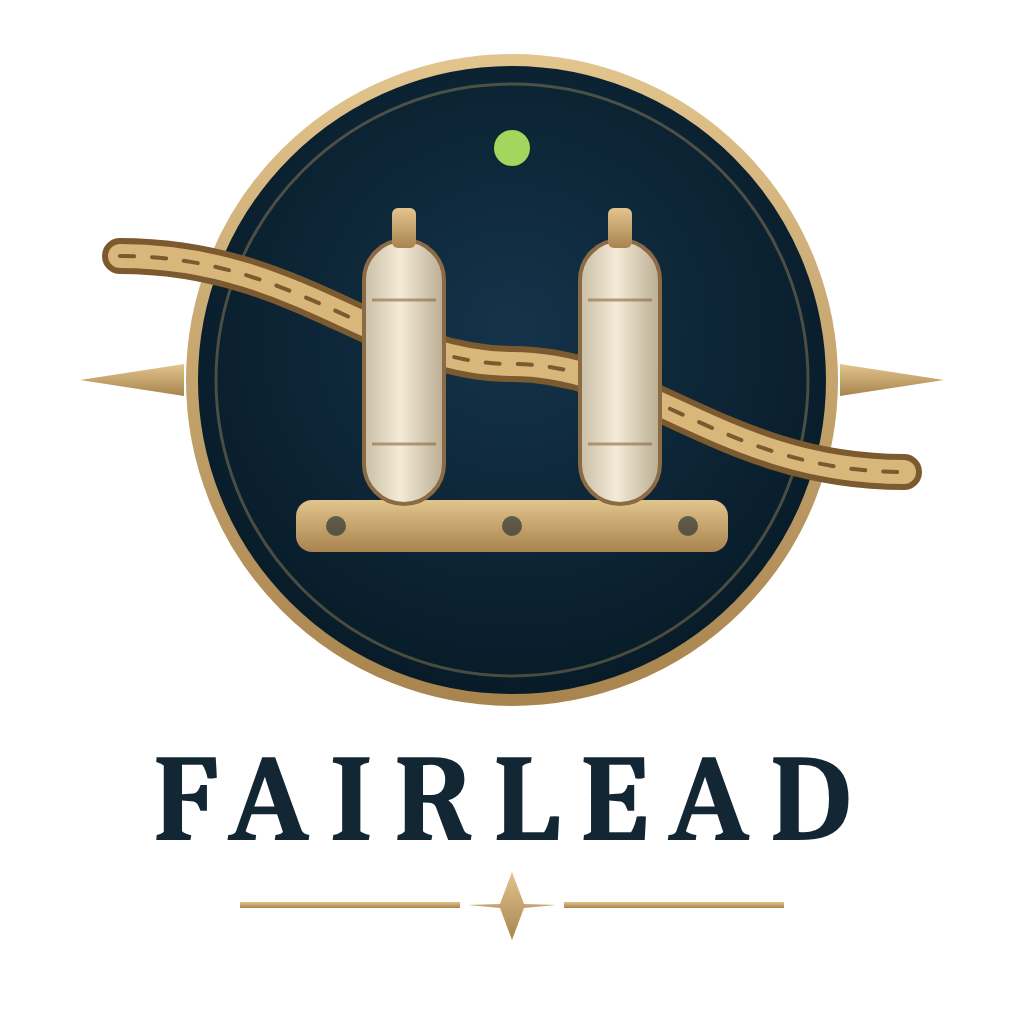
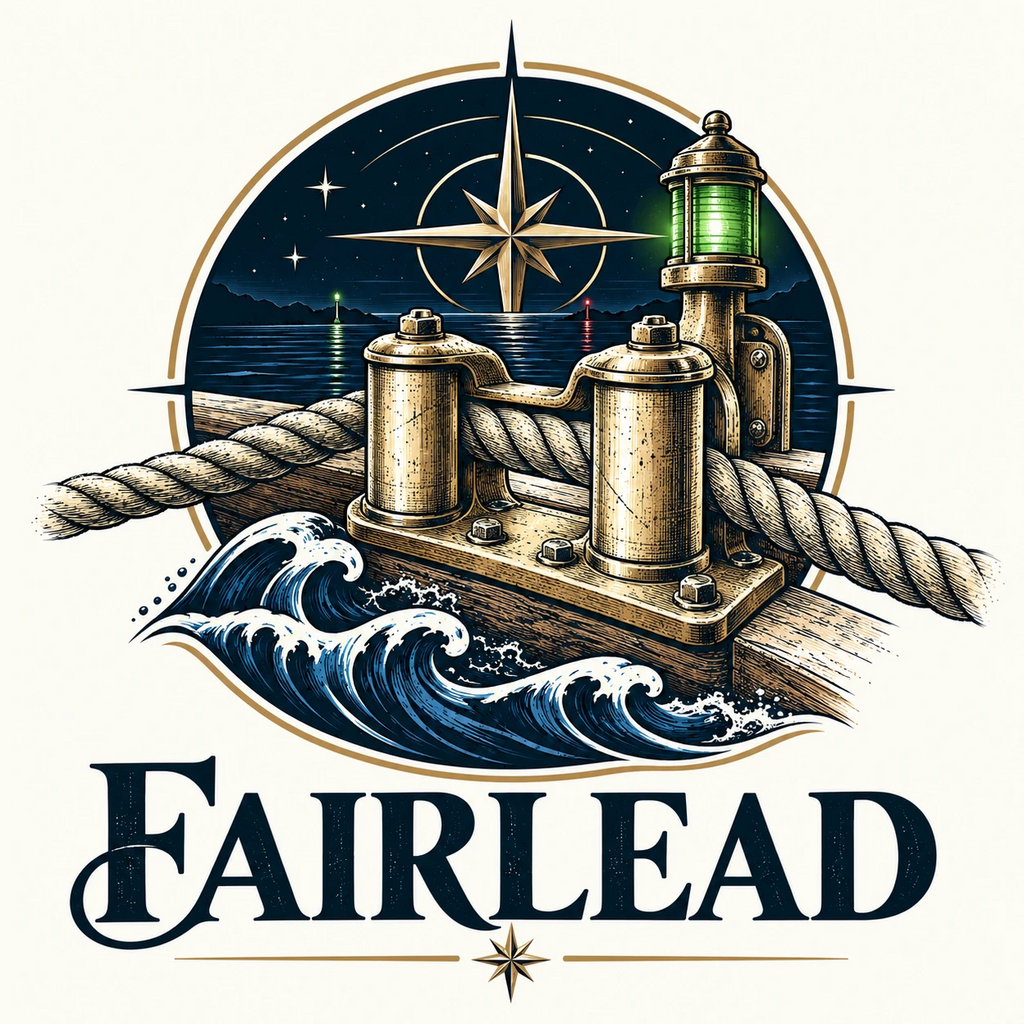
Brand: the detailed Fairlead emblem replaces the placeholder
The engraved emblem in the Scrimshaw style (brass roller fairlead on the
rail, line led between the rollers, starboard light, waves, compass star,
FAIRLEAD wordmark), in light and dark versions.

- assets/brand/emblem-{light,dark}.png: 1024 px on their ivory and navy
  backgrounds, like the sibling apps' emblems.
- web/public/brand/emblem-{light,dark}.png: 512 px with the backdrop made
  transparent, for the sidebar and empty states (smaller, per the review
  size note on #5).
- emblem-source.html (the placeholder drawing) is gone, and
  New-FairleadBrand.ps1 skips the emblem step without it, so a rerun can
  no longer overwrite the originals.
- README alt text and the brand README describe the new emblem.

Claude-Session: https://claude.ai/code/session_01NBAV4nXSVo3qjEChXvNoSS

diff --git a/assets/brand/README.md b/assets/brand/README.md
@@ -1,20 +1,19 @@
 # Fairlead brand
 
-> **Placeholder.** These emblems are a simple drawing made to get the app running. Replace `emblem-light.png` and
-> `emblem-dark.png` with the detailed original when it exists, then run `build\New-FairleadBrand.ps1 -MarkOnly`
-> so the script never overwrites them again.
 
 | File | What it is |
 |---|---|
-| `emblem-light.png`, `emblem-dark.png` | Full emblem (Fleet frame and wordmark) for light and dark backgrounds. Copied to `web/public/brand/` |
-| `emblem-source.html` | The SVG the placeholder emblems are rendered from |
+| `emblem-light.png`, `emblem-dark.png` | Full emblem (Fleet frame and wordmark), 1024 px, on the Chart room (ivory) and Night watch (navy) backgrounds. The detailed originals: not generated by any script |
+| `web/public/brand/emblem-*.png` | The in-app copies: 512 px, backdrop made transparent (flood fill from the corners at 1.5% tolerance) |
 | `mark.svg` | Icon-only mark, simplified to read at 32 px: a roller fairlead with the line led between its rollers |
 | `mark-256.png`, `mark-64.png` | The mark as PNG |
 | `favicon.ico` | Browser icon (16, 32, 48, 256) |
 | `tray.ico` | Tray icon (16, 20, 24, 32) |
 
-The subject is a roller fairlead on its deck plate: two upright rollers with the line passing between them, breaking
-out of the circle on both sides. The starboard-green light above it is the signature accent (`#a3d65c` night,
+The emblem is an engraved illustration in the Scrimshaw style: a brass roller fairlead bolted to a ship's rail, a
+hemp line led cleanly between its rollers and out of the circle on both sides, breaking waves below, the brass
+compass star above, and a starboard running light glowing green on the rail (the signature accent, `#a3d65c` night,
 `#4d7a1a` chart room). Everything follows `docs/UNIFIED-UI.md` section 8.
 
-Regenerate all of it with `powershell -File build\New-FairleadBrand.ps1` (needs Edge or Chrome on the build machine).
+Regenerate the mark and icons with `powershell -File build\New-FairleadBrand.ps1` (needs Edge or Chrome on the build
+machine). It leaves the emblems alone.

diff --git a/README.md b/README.md
@@ -1,7 +1,7 @@
 <p align="center">
   <picture>
     <source media="(prefers-color-scheme: dark)" srcset="assets/brand/emblem-dark.png">
-    <img src="assets/brand/emblem-light.png" width="280" alt="Fairlead emblem: a roller fairlead with a line led between its rollers, under a starboard light, above the FAIRLEAD wordmark">
+    <img src="assets/brand/emblem-light.png" width="280" alt="Fairlead emblem: a brass roller fairlead on a ship's rail with a rope led between its rollers, a green starboard light beside it and waves below, inside a brass compass ring, above the FAIRLEAD wordmark">
   </picture>
 </p>
 
